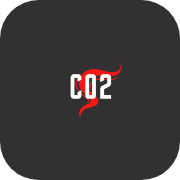
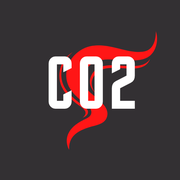
Accueil : dossier Jeux par défaut, nouvelles apps, icônes et mises à jour
- Icônes d'accueil d'après le logo C02 (téléphone).
- Par défaut : dossier Jeux (C02 Naval, Transport Manager), NC Cloud, Speed Test.
- Transport Manager renvoie vers transport-manager.net.
- Store : The Infected Grounds et CO2 Tanks (Ghoster-001), Talk.
- NC Cloud et Talk ouvrent leur application si elle est installée.
- Liens ouverts par une ancre cliquée (apps installées).
- Mises à jour inspirées de C02 Naval : version.json, bandeau, rechargement, « Rechercher ».
- Correction : un dossier ou les paramètres restaient invisibles après réouverture.

Claude-Session: https://claude.ai/code/session_01N5bJjLrPDM2GGRv52ggxz3

diff --git a/accueil/index.html b/accueil/index.html
@@ -161,9 +161,17 @@ body.fondu { animation: fondu .55s ease; }
 .cgu-ailleurs a { display: block; color: var(--texte); background: var(--verre); text-decoration: none; border-radius: 16px; padding: 12px 16px; font-weight: 500; }
 .cgu-ailleurs a:hover { background: rgba(255,255,255,.22); }
 .cgu-ailleurs .cgu-retour { background: none; border: 0; color: var(--doux); font: inherit; cursor: pointer; margin-top: 12px; text-decoration: underline; }
+/* Mises à jour */
+.maj-bandeau { position: fixed; left: 12px; right: 12px; bottom: calc(96px + env(safe-area-inset-bottom,0px)); z-index: 70; display: flex; align-items: center; justify-content: space-between; gap: 12px; background: var(--feuille); border: 1px solid rgba(255,51,51,.5); border-radius: 18px; padding: 12px 14px; box-shadow: 0 12px 30px rgba(0,0,0,.45); }
+.maj-bandeau p { margin: 0; font-size: 14px; }
+.maj-bandeau button { font: inherit; font-weight: 600; font-size: 14px; color: var(--texte); background: var(--rouge); border: 0; border-radius: 22px; padding: 9px 14px; cursor: pointer; white-space: nowrap; }
 </style>
 </head>
 <body>
+  <div class="maj-bandeau" id="maj-bandeau" role="status" hidden>
+    <p>Une nouvelle version est disponible.</p>
+    <button type="button" id="maj-appliquer">Mettre à jour</button>
+  </div>
   <div class="cgu" id="cgu" role="dialog" aria-modal="true" aria-labelledby="cgu-titre">
     <div class="cgu-carte">
       <div id="cgu-principal">
@@ -266,6 +274,11 @@ body.fondu { animation: fondu .55s ease; }
       <button class="bouton non" id="reinitialiser" type="button">Réinitialiser</button>
     </div>
     <div class="ligne"><p>Conditions d'utilisation<small>Ce que tu acceptes en utilisant le site</small></p><a class="bouton non" href="conditions.html" style="text-decoration:none">Lire</a></div>
+    <div class="ligne">
+      <p>Mise à jour<small>Version <span id="version-app"></span></small></p>
+      <button class="bouton non" id="chercher-maj" type="button">Rechercher</button>
+    </div>
+    <p class="note" id="msg-maj" hidden></p>
     <p class="note">Les réglages sont enregistrés sur cet appareil.</p>
     <button class="fermer" id="fermer" type="button">Fermer</button>
   </section>
@@ -273,7 +286,7 @@ body.fondu { animation: fondu .55s ease; }
 <script>
 (function () {
   // Icônes : Naval et Cloud et TM en image ; Speed et Lien redessinées en SVG (style Naval).
-  var APPS =  [{"id": "naval", "nom": "C02 Naval", "kind": "lien", "categorie": "jeu", "description": "Bataille navale à deux joueurs", "href": "https://drfrrobin.github.io/C02-Naval/", "svg": true, "fond": "#050d1b"}, {"id": "cloud", "nom": "NC Cloud", "kind": "lien", "categorie": "app", "description": "Nextcloud de la C02 Team", "href": "https://nc.c02.app/", "svg": true, "fond": "#050d1b"}, {"id": "speed", "nom": "Speed Test", "kind": "lien", "categorie": "app", "description": "Test de débit", "href": "https://sp.c02.app/", "svg": true, "fond": "#050d1b"}, {"id": "lien", "nom": "Lien", "kind": "lien", "categorie": "app", "description": "Raccourcisseur de liens", "href": "https://link.c02.app/link", "svg": true, "fond": "#050d1b"}, {"id": "tm", "nom": "Transport Manager", "kind": "lien", "categorie": "jeu", "description": "Gestion de transport", "href": "https://c02.app/tm/", "svg": true, "fond": "#06291a"}]
+  var APPS = [{"id": "naval", "nom": "C02 Naval", "kind": "lien", "categorie": "jeu", "description": "Bataille navale à deux joueurs", "href": "https://drfrrobin.github.io/C02-Naval/", "svg": true, "fond": "#050d1b"}, {"id": "tm", "nom": "Transport Manager", "kind": "lien", "categorie": "jeu", "description": "Gestion de transport", "href": "https://transport-manager.net/", "svg": true, "fond": "#06291a"}, {"id": "zombie", "nom": "The Infected Grounds", "kind": "lien", "categorie": "jeu", "description": "Survie zombie en vue de côté (Ghoster-001)", "href": "https://ghoster-001.github.io/Zombie-Survivor-By-C02/", "svg": true, "fond": "#05140a"}, {"id": "tanks", "nom": "CO2 Tanks", "kind": "lien", "categorie": "jeu", "description": "Chars en labyrinthe, arcade rétro (Ghoster-001)", "href": "https://ghoster-001.github.io/CO2-Tanks/", "svg": true, "fond": "#0b1020"}, {"id": "cloud", "nom": "NC Cloud", "kind": "lien", "categorie": "app", "description": "Nextcloud de la C02 Team", "href": "https://nc.c02.app/", "svg": true, "fond": "#050d1b", "native": {"android": "com.nextcloud.client", "ios": "nextcloud://"}}, {"id": "speed", "nom": "Speed Test", "kind": "lien", "categorie": "app", "description": "Test de débit", "href": "https://sp.c02.app/", "svg": true, "fond": "#050d1b"}, {"id": "lien", "nom": "Lien", "kind": "lien", "categorie": "app", "description": "Raccourcisseur de liens", "href": "https://link.c02.app/link", "svg": true, "fond": "#050d1b"}, {"id": "talk", "nom": "Talk", "kind": "lien", "categorie": "app", "description": "Discussion et appels (Nextcloud Talk)", "href": "https://talk.c02.app/", "svg": true, "fond": "#050d1b", "native": {"android": "com.nextcloud.talk2", "ios": "nextcloudtalk://"}}];
   var FONDS = [
     { id: 'gris', nom: 'Gris rouge', css: 'radial-gradient(120% 60% at 90% 0%, rgba(255,51,51,.42) 0%, rgba(255,51,51,0) 60%), radial-gradient(90% 50% at 0% 100%, rgba(255,51,51,.18) 0%, rgba(255,51,51,0) 60%), #333033', apercu: '#333033' },
     { id: 'violet', nom: 'Violet', css: 'radial-gradient(120% 60% at 90% 0%, rgba(168,85,247,.5) 0%, rgba(168,85,247,0) 60%), radial-gradient(90% 50% at 0% 100%, rgba(236,72,153,.22) 0%, rgba(236,72,153,0) 60%), #1d1830', apercu: '#1d1830' },
@@ -282,7 +295,7 @@ body.fondu { animation: fondu .55s ease; }
     { id: 'noir', nom: 'Noir', css: 'radial-gradient(120% 60% at 90% 0%, rgba(255,51,51,.25) 0%, rgba(255,51,51,0) 60%), #0a0a0a', apercu: '#0a0a0a' }
   ];
   var CLE_ORDRE = 'c02-accueil-ordre', CLE_REGLAGES = 'c02-accueil-reglages';
-  var DEFAUT_ORDRE = { grille: [] };
+  var DEFAUT_ORDRE = { grille: [ { type: 'dossier', id: 'f_jeux', nom: 'Jeux', apps: ['naval', 'tm'] }, 'cloud', 'speed' ] };
 
   // ---- Stockage local ----
   function lire(c) { try { return JSON.parse(localStorage.getItem(c)); } catch (e) { return null; } }
@@ -296,7 +309,7 @@ body.fondu { animation: fondu .55s ease; }
 
   // La grille contient des apps (texte = identifiant) ou des dossiers (objets).
   function charger() {
-    var o = lire(CLE_ORDRE) || { grille: [] }, vus = {}, grille = [];
+    var o = lire(CLE_ORDRE) || DEFAUT_ORDRE, vus = {}, grille = [];
     (o.grille || []).forEach(function (x) {
       if (typeof x === 'string') {
         if (ids.indexOf(x) >= 0 && !vus[x]) { vus[x] = 1; grille.push(x); }
@@ -353,6 +366,12 @@ body.fondu { animation: fondu .55s ease; }
     speed: '<path d="M22 66 A30 30 0 1 1 74 66" fill="none" stroke="{c}" stroke-width="7" stroke-linecap="round"/><line x1="48" y1="56" x2="64" y2="36" stroke="#ffffff" stroke-width="5" stroke-linecap="round"/><circle cx="48" cy="56" r="6" fill="{c}"/>',
     lien: '<rect x="18" y="38" width="34" height="20" rx="10" transform="rotate(-45 35 48)" fill="none" stroke="{c}" stroke-width="7"/><rect x="44" y="38" width="34" height="20" rx="10" transform="rotate(-45 61 48)" fill="none" stroke="#ffffff" stroke-width="7"/>'
   };
+  STYLE.zombie = ['#2e7d32', '#05140a', '#b9f6ca'];
+  STYLE.tanks  = ['#1e88e5', '#0b1020', '#8fd3ff'];
+  STYLE.talk   = ['#1565c0', '#050d1b', '#8fd3ff'];
+  GLYPHE.zombie = '<circle cx="48" cy="42" r="22" fill="none" stroke="{c}" stroke-width="6"/><circle cx="40" cy="40" r="4" fill="{c}"/><circle cx="56" cy="40" r="4" fill="{c}"/><path d="M40 56 L44 62 L48 56 L52 62 L56 56" stroke="{c}" stroke-width="4" fill="none" stroke-linejoin="round"/><path d="M36 70 V80 M48 68 V82 M60 70 V80" stroke="{c}" stroke-width="5" stroke-linecap="round"/>';
+  GLYPHE.tanks = '<rect x="20" y="52" width="56" height="22" rx="8" fill="{c}"/><circle cx="48" cy="46" r="13" fill="none" stroke="{c}" stroke-width="6"/><path d="M48 46 H82" stroke="{c}" stroke-width="6" stroke-linecap="round"/>';
+  GLYPHE.talk = '<path d="M22 28 H74 A8 8 0 0 1 82 36 V58 A8 8 0 0 1 74 66 H48 L34 80 V66 H22 A8 8 0 0 1 14 58 V36 A8 8 0 0 1 22 28 Z" fill="none" stroke="{c}" stroke-width="6" stroke-linejoin="round"/><circle cx="34" cy="47" r="4" fill="{c}"/><circle cx="48" cy="47" r="4" fill="{c}"/><circle cx="62" cy="47" r="4" fill="{c}"/>';
   function svgIcone(app) {
     var s = STYLE[app.id], g = 'g' + app.id;
     return '<svg viewBox="0 0 96 96" aria-hidden="true"><defs><linearGradient id="' + g + '" x1="0" y1="0" x2="1" y2="1"><stop offset="0" stop-color="' + s[0] + '"/><stop offset="1" stop-color="' + s[1] + '"/></linearGradient></defs><rect width="96" height="96" rx="22" fill="url(#' + g + ')"/>' + GLYPHE[app.id].split('{c}').join(s[2]) + '</svg>';
@@ -365,6 +384,7 @@ body.fondu { animation: fondu .55s ease; }
   var animerEntree = false, dossierNeuf = null, fondPret = false, storeAffiche = false;
   function anime(el, images, opts) {
     if (REDUIT || !el || !el.animate) return null;
+    if (el.getAnimations) el.getAnimations().forEach(function (a) { a.cancel(); });
     return el.animate(images, opts);
   }
   function afficher(el, depuis, vers) {
@@ -518,10 +538,32 @@ body.fondu { animation: fondu .55s ease; }
     var n = document.querySelector('.app[data-key="' + cle + '"]');
     if (n) n.classList.add('source');
   }
+  function ouvrirLien(url) {
+    var a = document.createElement('a');
+    a.href = url; a.target = '_blank'; a.rel = 'noopener';
+    document.body.appendChild(a); a.click(); a.remove();
+  }
+  // Nextcloud et Talk : ouvrent leur application si elle est installée, sinon le site.
+  function ouvrirNatif(app) {
+    var web = app.href, n = app.native, ua = navigator.userAgent || '';
+    if (/Android/i.test(ua) && n.android) {
+      var u = new URL(web);
+      location.href = 'intent://' + u.host + u.pathname + u.search + '#Intent;scheme=https;package=' + n.android + ';S.browser_fallback_url=' + encodeURIComponent(web) + ';end';
+      return;
+    }
+    if (/iPhone|iPad|iPod/i.test(ua) && n.ios) {
+      setTimeout(function () { if (!document.hidden) ouvrirLien(web); }, 1200);
+      location.href = n.ios;
+      return;
+    }
+    ouvrirLien(web);
+  }
   function ouvrir(cle, kind) {
     if (kind === 'dossier') return ouvrirDossier(cle);
     var app = appDe(cle);
-    if (app && app.href) window.open(app.href, '_blank', 'noopener');
+    if (!app || !app.href) return;
+    if (app.native) return ouvrirNatif(app);
+    ouvrirLien(app.href);
   }
 
   function reordonnerAvant(cle) {
@@ -698,7 +740,7 @@ body.fondu { animation: fondu .55s ease; }
   }
   interrupteur.addEventListener('change', function () { reglages.noms = interrupteur.checked; sauverReglages(); appliquerNoms(); });
   document.getElementById('reinitialiser').addEventListener('click', function () {
-    etat = { grille: [] };
+    etat = { grille: JSON.parse(JSON.stringify(DEFAUT_ORDRE.grille)) };
     sauver(); rendre();
   });
   document.getElementById('onglet-reglages').addEventListener('click', ouvrirReglages);
@@ -731,6 +773,50 @@ body.fondu { animation: fondu .55s ease; }
     document.getElementById('cgu-principal').hidden = false;
     document.getElementById('cgu-ailleurs').style.display = 'none';
   });
+
+  // ---- Mises à jour : version publiée (version.json), comme pour C02 Naval ----
+  var APP_VERSION = '1.1.0';
+  var CLE_MAJ = 'c02-maj-tentee';
+  var bandeau = document.getElementById('maj-bandeau'), msgMaj = document.getElementById('msg-maj');
+  document.getElementById('version-app').textContent = APP_VERSION;
+  function comparerVersions(a, b) {
+    var x = String(a).split('.').map(Number), y = String(b).split('.').map(Number);
+    for (var i = 0; i < 3; i++) { if ((x[i] || 0) > (y[i] || 0)) return 1; if ((x[i] || 0) < (y[i] || 0)) return -1; }
+    return 0;
+  }
+  function recharger() {
+    var vider = window.caches ? caches.keys().then(function (c) { return Promise.all(c.map(function (k) { return caches.delete(k); })); }) : Promise.resolve();
+    vider.then(function () { location.reload(); });
+  }
+  function dire(texte) { msgMaj.textContent = texte; msgMaj.hidden = false; }
+  function verifierMaj(manuel) {
+    fetch('version.json?t=' + Date.now(), { cache: 'no-store' }).then(function (r) {
+      if (!r.ok) throw new Error('HTTP ' + r.status);
+      return r.json();
+    }).then(function (d) {
+      if (!d || typeof d.version !== 'string' || comparerVersions(d.version, APP_VERSION) <= 0) {
+        if (manuel) dire('Tu as déjà la dernière version (' + APP_VERSION + ').');
+        return;
+      }
+      var tentee = null;
+      try { tentee = sessionStorage.getItem(CLE_MAJ); } catch (e) {}
+      // Rechargement automatique une seule fois par version, à l'ouverture.
+      if (!manuel && tentee !== d.version) {
+        try { sessionStorage.setItem(CLE_MAJ, d.version); } catch (e) {}
+        recharger();
+        return;
+      }
+      bandeau.hidden = false;
+      if (manuel) dire('Version ' + d.version + ' disponible.');
+    }).catch(function () {
+      if (manuel) dire('Vérification impossible pour le moment (hors ligne ?).');
+    });
+  }
+  document.getElementById('maj-appliquer').addEventListener('click', recharger);
+  document.getElementById('chercher-maj').addEventListener('click', function () { verifierMaj(true); });
+  document.addEventListener('visibilitychange', function () { if (!document.hidden) verifierMaj(false); });
+  setInterval(function () { verifierMaj(false); }, 30 * 60 * 1000);
+  setTimeout(function () { verifierMaj(false); }, 300);
 
   // ---- Démarrage ----
   appliquerNoms(); appliquerFond(); animerEntree = etat.grille.length > 0; rendre(); fondPret = true; surChangementPage();

diff --git a/accueil/sw.js b/accueil/sw.js
@@ -1,5 +1,6 @@
 // Cache minimal : la page d'accueil fonctionne aussi hors ligne une fois ouverte.
-const CACHE = 'c02-accueil-v1';
+const VERSION = '1.1.0';
+const CACHE = 'c02-accueil-v' + VERSION;
 const FICHIERS = ['./', './index.html', './manifest.webmanifest', './icon-192.png', './icon-512.png', './apple-touch-icon.png'];
 
 self.addEventListener('install', (e) => {
@@ -10,6 +11,8 @@ self.addEventListener('activate', (e) => {
 });
 self.addEventListener('fetch', (e) => {
   if (e.request.method !== 'GET') return;
+  // La version publiée n'est jamais mise en cache : elle doit toujours être la vraie.
+  if (new URL(e.request.url).pathname.endsWith('/version.json')) return;
   // Réseau d'abord (toujours la dernière version), cache en secours.
   e.respondWith(
     fetch(e.request).then((rep) => {

diff --git a/README.md b/README.md
@@ -92,3 +92,12 @@ Les installations en version 1.1.0 ou plus ancienne ne reçoivent pas la mise à
 - **Adresse** : https://drfrrobin.github.io/C02-games/accueil/
 - **Fichier** : `accueil/index.html` (un seul fichier, aucune dépendance locale).
 - **Mise à jour** : chaque push sur `main` republie la page. La page WordPress d'accueil l'affiche en plein écran, donc les visiteurs voient la dernière version automatiquement.
+
+### Publier une nouvelle version de l'accueil
+
+Le numéro de version est écrit à trois endroits, qui doivent toujours concorder :
+- `accueil/index.html` : `APP_VERSION` ;
+- `accueil/version.json` : `version` ;
+- `accueil/sw.js` : `VERSION`.
+
+Change les trois, puis fusionne dans `main`. Les visiteurs reçoivent la mise à jour à leur prochaine ouverture (rechargement automatique), ou par un bandeau s'il n'est pas possible de recharger tout de suite.
